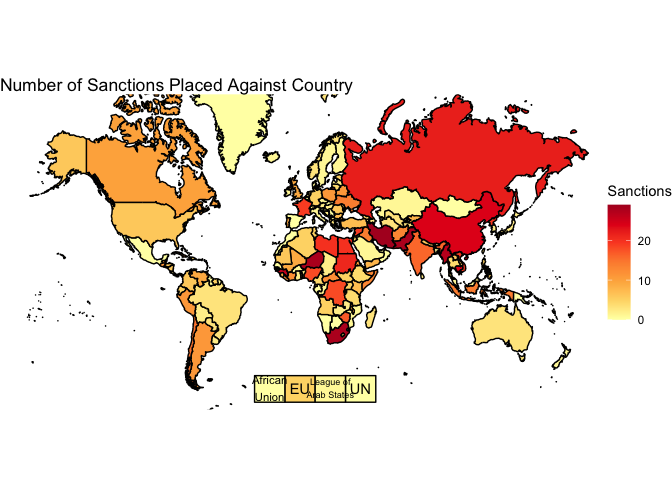
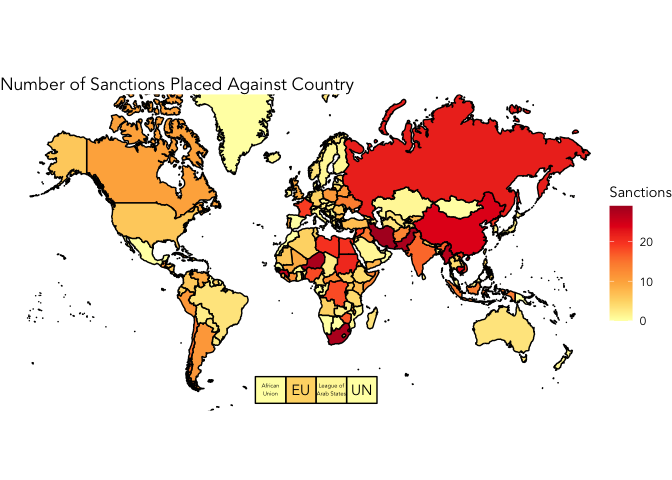
Graphs

diff --git a/docs/Project.md b/docs/Project.md
@@ -61,132 +61,24 @@ received more sanctions to or from the rest of the world.
 
 ``` r
 library(tidyverse)
-```
-
-    ## ── Attaching core tidyverse packages ──────────────────────── tidyverse 2.0.0 ──
-    ## ✔ dplyr     1.1.3     ✔ readr     2.1.4
-    ## ✔ forcats   1.0.0     ✔ stringr   1.5.0
-    ## ✔ ggplot2   3.4.3     ✔ tibble    3.2.1
-    ## ✔ lubridate 1.9.2     ✔ tidyr     1.3.0
-    ## ✔ purrr     1.0.2     
-    ## ── Conflicts ────────────────────────────────────────── tidyverse_conflicts() ──
-    ## ✖ dplyr::filter() masks stats::filter()
-    ## ✖ dplyr::lag()    masks stats::lag()
-    ## ℹ Use the conflicted package (<http://conflicted.r-lib.org/>) to force all conflicts to become errors
-
-``` r
 library(ggplot2)
 library(cowplot)
-```
-
-    ## 
-    ## Attaching package: 'cowplot'
-    ## 
-    ## The following object is masked from 'package:lubridate':
-    ## 
-    ##     stamp
-
-``` r
 library(ggpubr)
-```
-
-    ## 
-    ## Attaching package: 'ggpubr'
-    ## 
-    ## The following object is masked from 'package:cowplot':
-    ## 
-    ##     get_legend
-
-``` r
 library(maps)
-```
-
-    ## 
-    ## Attaching package: 'maps'
-    ## 
-    ## The following object is masked from 'package:purrr':
-    ## 
-    ##     map
-
-``` r
 library(gapminder)
 library(biscale)
 library(sf)
-```
-
-    ## Linking to GEOS 3.11.0, GDAL 3.5.3, PROJ 9.1.0; sf_use_s2() is TRUE
-
-``` r
 library(ggalluvial)
 library(wesanderson)
 library(magrittr)
-```
-
-    ## 
-    ## Attaching package: 'magrittr'
-    ## 
-    ## The following object is masked from 'package:purrr':
-    ## 
-    ##     set_names
-    ## 
-    ## The following object is masked from 'package:tidyr':
-    ## 
-    ##     extract
-
-``` r
 library(dplyr)
 library("data.table")
-```
-
-    ## 
-    ## Attaching package: 'data.table'
-    ## 
-    ## The following objects are masked from 'package:lubridate':
-    ## 
-    ##     hour, isoweek, mday, minute, month, quarter, second, wday, week,
-    ##     yday, year
-    ## 
-    ## The following objects are masked from 'package:dplyr':
-    ## 
-    ##     between, first, last
-    ## 
-    ## The following object is masked from 'package:purrr':
-    ## 
-    ##     transpose
-
-``` r
 library(vcd)
-```
 
-    ## Loading required package: grid
-
-``` r
 sanctions <- read_csv("sanctions.csv")
-```
-
-    ## Rows: 1101 Columns: 15
-    ## ── Column specification ────────────────────────────────────────────────────────
-    ## Delimiter: ","
-    ## chr  (5): sanctioned_state, sanctioning_state, descr_trade, objective, success
-    ## dbl (10): case_id, begin, end, length, trade, arms, military, financial, tra...
-    ## 
-    ## ℹ Use `spec()` to retrieve the full column specification for this data.
-    ## ℹ Specify the column types or set `show_col_types = FALSE` to quiet this message.
-
-``` r
 world_map <- map_data("world")
 regions <- read_csv("gapMinderGeo.csv")
 ```
-
-    ## Rows: 197 Columns: 12
-    ## ── Column specification ────────────────────────────────────────────────────────
-    ## Delimiter: ","
-    ## chr (9): geo, name, four_regions, eight_regions, six_regions, members_oecd_g...
-    ## dbl (2): Latitude, Longitude
-    ## lgl (1): World bank, 3 income groups 2017
-    ## 
-    ## ℹ Use `spec()` to retrieve the full column specification for this data.
-    ## ℹ Specify the column types or set `show_col_types = FALSE` to quiet this message.
 
 ``` r
 sanctioning_count <- data.frame(
@@ -356,15 +248,9 @@ ggplot(num_sanc)+
   geom_line(aes(x=year, y=uknumber,color="UK"),size=1.5)+
   geom_line(aes(x=year, y=runumber,color="Russia"),size=1.5)+
   theme_minimal()+
-  scale_color_manual(values=c("Total"="dodgerblue2","US"="firebrick1","EU"="darkorchid","UN"="goldenrod1","UK"="chartreuse3","Russia"="darkorange1"))+
+  scale_color_manual(values=c("Total"="#EBEBEB","US"="#307DC3","EU"="#D6D6D6","UN"="#30BBC3","UK"="#7ABFFF","Russia"="#79F1F8"))+
   labs(title="Number of Active Sanctions Placed by Countries Over Time",color="Regions",x="Year",y="Number of Sanctions") 
 ```
-
-    ## Warning: Using `size` aesthetic for lines was deprecated in ggplot2 3.4.0.
-    ## ℹ Please use `linewidth` instead.
-    ## This warning is displayed once every 8 hours.
-    ## Call `lifecycle::last_lifecycle_warnings()` to see where this warning was
-    ## generated.
 
 ![](Project_files/figure-gfm/time%20series%20sanctions%20placed-1.png)<!-- -->
 
@@ -425,7 +311,7 @@ ggplot(num_sanc_placed)+
   geom_line(aes(x=year, y=syrianumber,color="Syria"),size=1.5)+
   geom_line(aes(x=year, y=libyanumber,color="Libya"),size=1.5)+
   theme_minimal()+
-  scale_color_manual(values=c("Iran"="gold4","Russia"="brown1","South Africa"="darkgreen","Afghanistan"="darkolivegreen","China"="darkorange4","Vietnam"="lavenderblush4","Syria"="hotpink3","Libya"="darkslateblue"))+
+  scale_color_manual(values=c("Iran"="#30BBC3","Russia"="#307DC3","South Africa"="#79F1F8","Afghanistan"="#EBEBEB","China"="#7ABFFF","Vietnam"="#D6D6D6","Syria"="darkblue","Libya"="darkslateblue"))+
   labs(title="Number of Active Sanctions Placed Upon Countries Over Time",color="Countries",x="Year",y="Number of Sanctions")
 ```
 
@@ -545,14 +431,15 @@ sanctioning_plot <- ggplot(filter(sanctions_c,region!="EU",region!="African Unio
   geom_polygon(color="black")+
   geom_polygon(data=orgs,color="black")+
   geom_polygon(data=filter(sanctions_c,region=="Lesotho"),color="black")+
-  annotate("text",x=0,y=-55,label="EU",color="white")+
-  annotate("text",x=-20,y=-55,label="African\nUnion",size=3)+
-  annotate("text",x=40,y=-55,label="UN",color="white")+
-  annotate("text",x=20,y=-55,label="League of\nArab States",size=2.4)+
+  annotate("text",x=0,y=-55,label="EU",color="white",family="Avenir")+
+  annotate("text",x=-20,y=-55,label="African\nUnion",size=1.5,family="Avenir")+
+  annotate("text",x=40,y=-55,label="UN",color="white",family="Avenir")+
+  annotate("text",x=20,y=-55,label="League of\nArab States",size=1.5,family="Avenir")+
   coord_map(xlim=c(-180,180),ylim=c(-55,90))+
   theme_void()+
   labs(title="Number of Sanctions Placed by Country",
-       fill="Sanctions")
+       fill="Sanctions")+
+  theme(text = element_text(family = "Avenir"))
 sanctioning_plot + 
   scale_fill_distiller(palette = "Blues",direction=1,breaks=c(0, 1, 2), labels = c(0, 10, 100))
 ```
@@ -572,14 +459,15 @@ sanctioned_plot <- ggplot(filter(sanctions_c,region!="EU",region!="African Union
   geom_polygon(color="black")+
   geom_polygon(data=orgs,color="black")+
   geom_polygon(data=filter(sanctions_c,region=="Lesotho"),color="black")+
-  annotate("text",x=0,y=-55,label="EU")+
-  annotate("text",x=-20,y=-55,label="African\nUnion",size=3)+
-  annotate("text",x=40,y=-55,label="UN")+
-  annotate("text",x=20,y=-55,label="League of\nArab States",size=2.4)+
+  annotate("text",x=0,y=-55,label="EU",family="Avenir")+
+  annotate("text",x=-20,y=-55,label="African\nUnion",size=1.5,family="Avenir")+
+  annotate("text",x=40,y=-55,label="UN",family="Avenir")+
+  annotate("text",x=20,y=-55,label="League of\nArab States",size=1.5,family="Avenir")+
   coord_map(xlim=c(-180,180),ylim=c(-55,90))+
   theme_void()+
   labs(title="Number of Sanctions Placed Against Country",
-       fill="Sanctions")
+       fill="Sanctions")+
+  theme(text = element_text(family = "Avenir"))
 sanctioned_plot +
   scale_fill_distiller(palette = "YlOrRd",direction=1)
 ```
@@ -596,19 +484,19 @@ bimap <- ggplot() +
   geom_polygon(data=filter(bidata,region!="EU",region!="African Union",region!="UN",region!="League of Arab States"), mapping = aes(x=long, y=lat, group=group, fill = bi_class), color = "white", size = 0.1, show.legend = F) +
   geom_polygon(data=filter(bidata,region=="EU"|region=="African Union"|region=="UN"|region=="League of Arab States"),mapping = aes(x=long, y=lat, group=group, fill = bi_class), color = "white", size = 0.1, show.legend = F) +
   geom_polygon(data=filter(bidata,region=="Lesotho"), mapping = aes(x=long, y=lat, group=group, fill = bi_class), color = "white", size = 0.1, show.legend = F) +
-  annotate("text",x=0,y=-55,label="EU",color="white")+
-  annotate("text",x=-20,y=-55,label="African\nUnion",size=3,color="black")+
-  annotate("text",x=40,y=-55,label="UN",color="black")+
-  annotate("text",x=20,y=-55,label="League of\nArab States",size=2.4,color="black")+
+  annotate("text",x=0,y=-55,label="EU",color="white",family="Avenir")+
+  annotate("text",x=-20,y=-55,label="African\nUnion",size=2,color="black",family="Avenir")+
+  annotate("text",x=40,y=-55,label="UN",color="black",family="Avenir")+
+  annotate("text",x=20,y=-55,label="League of\nArab States",size=1.5,color="black",family="Avenir")+
   bi_scale_fill(pal = "DkViolet", dim = 3) +
   coord_map(xlim=c(-180,180),ylim=c(-55,90))+
   labs(title = "Sanctions Placed vs. Against",x="",y="") +
-  bi_theme()
+  bi_theme(base_family="Avenir", base_size=13)
 bilegend <- bi_legend(pal = "DkViolet",
                            dim = 3,
                            xlab = "Sanctions Against",
                            ylab = "Sanctions Placed",
-                           size = 8)
+                           size = 5)
 bifinmap <- ggdraw() +
   draw_plot(bimap, 0, 0, 1, 1)+
   draw_plot(bilegend, 0.1, 0.1, 0.2, 0.2)
@@ -761,41 +649,32 @@ luv_data2 <- mutate(luv_data2,sanctioning_region=fct_recode(sanctioning_region,
 
 luv_data2 <- summarize(group_by(luv_data2,
                                sanctioned_region,sanctioning_region),freq=n())
-```
-
-    ## `summarise()` has grouped output by 'sanctioned_region'. You can override using
-    ## the `.groups` argument.
-
-``` r
 luv_data2 <- drop_na(luv_data2,sanctioned_region)
 
 ggplot(luv_data2,aes(y=freq,axis1=sanctioning_region,axis2=sanctioned_region))+
   geom_alluvium(aes(fill=sanctioning_region),alpha=1)+
   geom_stratum()+
-  geom_text(stat="stratum",aes(label = after_stat(stratum)))+
   geom_bar(aes(x=1,fill=sanctioning_region,y=freq),stat="identity",width=1/3,alpha=.5)+
   geom_bar(aes(x=2,fill=sanctioned_region,y=freq),stat="identity",width=1/3,alpha=.5)+
-  scale_fill_manual(values=c("East Asia, South Asia, & Pacific"="hotpink3",
-                             "Europe & Central Asia" = "chartreuse4",
-                             "Latin America & Caribbean" = "dodgerblue4",
-                             "Middle East & North Africa"="coral3",
-                             "Sub-Saharan Africa" = "darkgoldenrod2",
-                             "North America*"="darkorchid4"))+
-  scale_x_continuous(breaks=c(1,2),labels=c("Sanctioning Region","Sanctioned Region"))+
+  scale_fill_manual(values=c("East Asia, South Asia, & Pacific"="#EBEBEB",
+                             "Europe & Central Asia" = "#307DC3",
+                             "Latin America & Caribbean" = "#D6D6D6",
+                             "Middle East & North Africa"="#30BBC3",
+                             "Sub-Saharan Africa" = "#7ABFFF",
+                             "North America*"="#79F1F8"))+
+  scale_x_continuous(breaks=c(1,2),labels=c("Sanctioning Region","Sanctioned Region"),position = "top")+
   theme_classic()+
-  theme(axis.line = element_blank(),axis.ticks = element_blank(),axis.text.y = element_blank(),axis.title = element_blank())+
-  labs(title="Sanctions from Region to Region",fill="Region")+
-  annotate("text",x=1.5,y=-5.5,label="*US and Canada",size=2.4)
+  theme(axis.line = element_blank(),axis.ticks = element_blank(),axis.text.y = element_blank(),axis.title = element_blank(),legend.position = "none",text = element_text(family = "Avenir"),axis.text = element_text(face="bold",color="black"))+
+  labs(title=" The Cross-Regional Flow of Sanctions",
+       subtitle="   Which regions place sanctions on which other regions?",
+       fill="Region")+
+  theme(plot.title = element_text(size = 20),
+        plot.subtitle = element_text(size = 10)
+        )+
+  annotate("text",x=1,y=-30,label="*US and Canada",size=2.4, family="Avenir", fontface = 'italic')+
+  annotate("text",x=2,y=-30,label="*US and Canada",size=2.4, family="Avenir",fontface = 'italic')+
+  geom_text(stat="stratum",aes(label = after_stat(stratum)), size=2.5, family="Avenir", color="black")
 ```
-
-    ## Warning in to_lodes_form(data = data, axes = axis_ind, discern =
-    ## params$discern): Some strata appear at multiple axes.
-
-    ## Warning in to_lodes_form(data = data, axes = axis_ind, discern =
-    ## params$discern): Some strata appear at multiple axes.
-
-    ## Warning in to_lodes_form(data = data, axes = axis_ind, discern =
-    ## params$discern): Some strata appear at multiple axes.
 
 ![](Project_files/figure-gfm/alluvial-1.png)<!-- -->
 
@@ -872,7 +751,8 @@ ggplot(obj_comb,aes(x=reorder(obj_name,-count), y=count,fill=reorder(region,-cou
   coord_flip()+
   labs(y="Frequency",x="Objectives",title = "Objectives of Sanctions by Selected Sanctioned Region",fill="Sanctioned Region")+
   theme_minimal()+
-  scale_fill_manual(values=c("lightgrey","darkgoldenrod2","coral3","dodgerblue4"))
+  scale_fill_manual(values=c("#EBEBEB","#307DC3","#7ABFFF","#79F1F8"))+
+  theme(text = element_text(family = "Avenir"))
 ```
 
 ![](Project_files/figure-gfm/stacked%20bar%20objectives-1.png)<!-- -->
@@ -927,14 +807,14 @@ num_sanc_type <- pivot_longer(num_sanc_type, names_to="key", values_to="values",
 ggplot(num_sanc_type, aes(x=key, y=values, group=country))+
   geom_line()+
   geom_point(aes(color=key), size=2)+
-  scale_color_manual(values=c("coral1","khaki","cornflowerblue","aquamarine","lightpink","lightgreen", "coral1"), name="Sanction Type")+  
+  scale_color_manual(values=c("#EBEBEB","#307DC3","#D6D6D6","#30BBC3","#7ABFFF","#79F1F8","darkblue"), name="Sanction Type")+  
   scale_x_discrete(name="", breaks=1:6, labels=c("arms","financial","military","other","trade","travel"))+
   labs(title="Distribution of Type of Sanction Across Selected Countries", y="Z-Score Value")+
   coord_polar()+
   theme_minimal()+
   facet_wrap(~country, strip.position="bottom")+
   theme(axis.text.y=element_text(size=10))+
-  theme(strip.text.x=element_text(size=10))
+  theme(strip.text.x=element_text(size=10),)
 ```
 
 ![](Project_files/figure-gfm/radar%20types-1.png)<!-- -->
